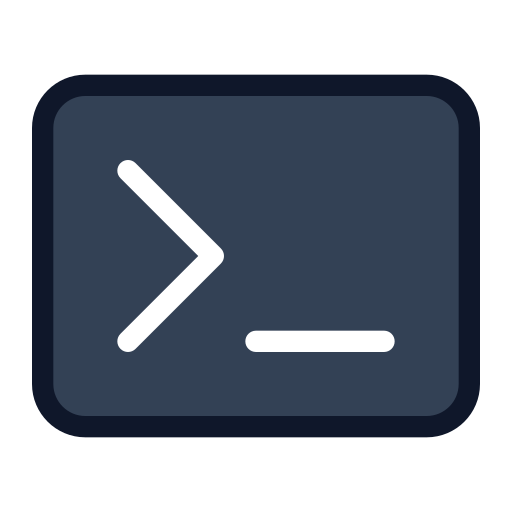
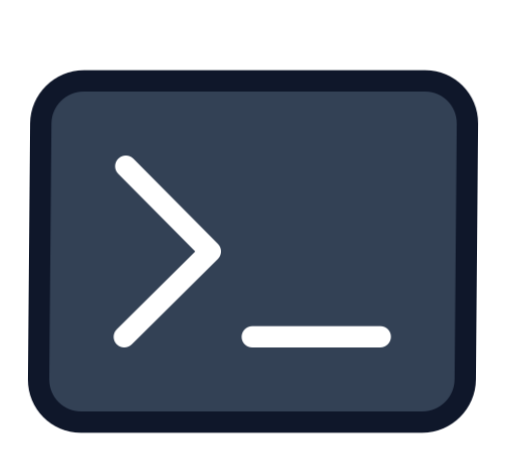
updating website for v1.3

diff --git a/_layouts/home.md b/_layouts/home.md
@@ -3,7 +3,7 @@ layout: page
 ---
 <div align="center">
   <a target="_blank" alt="" title="GitHub" href="https://github.com/GyulyVGC/sniffnet"><img class="shield" height="30px" src="https://img.shields.io/github/stars/GyulyVGC/sniffnet?logo=github&color=blue&style=for-the-badge"/></a>&nbsp;
-  <a alt="" title="Download" href="https://www.sniffnet.net/download"><img class="shield" height="30px" src="https://img.shields.io/github/downloads/GyulyVGC/sniffnet/total?logo=github&color=blue&style=for-the-badge"/></a>
+  <a alt="" title="Download" href="https://sniffnet.net/download"><img class="shield" height="30px" src="https://img.shields.io/github/downloads/GyulyVGC/sniffnet/total?logo=github&color=blue&style=for-the-badge"/></a>
 </div><br/>
 
 <div align="center">
@@ -74,7 +74,7 @@ The Wiki includes step-by-step guides, tips, examples of usage, and answers to f
 <hr/>
 
 <div align="center">
-<h6>💻 <a href="https://www.sniffnet.net/download/">DOWNLOAD</a> &nbsp;&nbsp;&nbsp; | &nbsp;&nbsp;&nbsp; 💖 <a href="https://www.sniffnet.net/sponsor/">SPONSOR</a> &nbsp;&nbsp;&nbsp; | &nbsp;&nbsp;&nbsp; 📸 <a href="https://www.sniffnet.net/gallery/">GALLERY</a></h6>
+<h6>💻 <a href="https://sniffnet.net/download/">DOWNLOAD</a> &nbsp;&nbsp;&nbsp; | &nbsp;&nbsp;&nbsp; 💖 <a href="https://sniffnet.net/sponsor/">SPONSOR</a> &nbsp;&nbsp;&nbsp; | &nbsp;&nbsp;&nbsp; 📸 <a href="https://sniffnet.net/gallery/">GALLERY</a></h6>
 </div>
 
 <hr/>